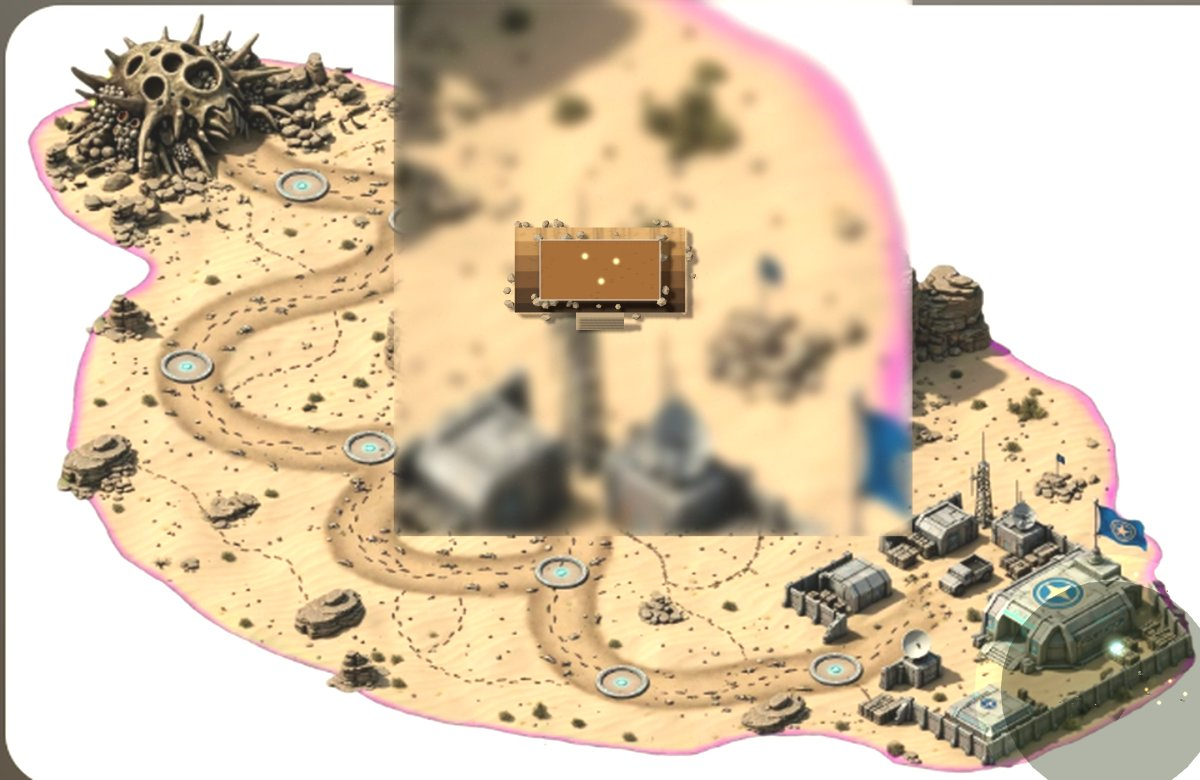
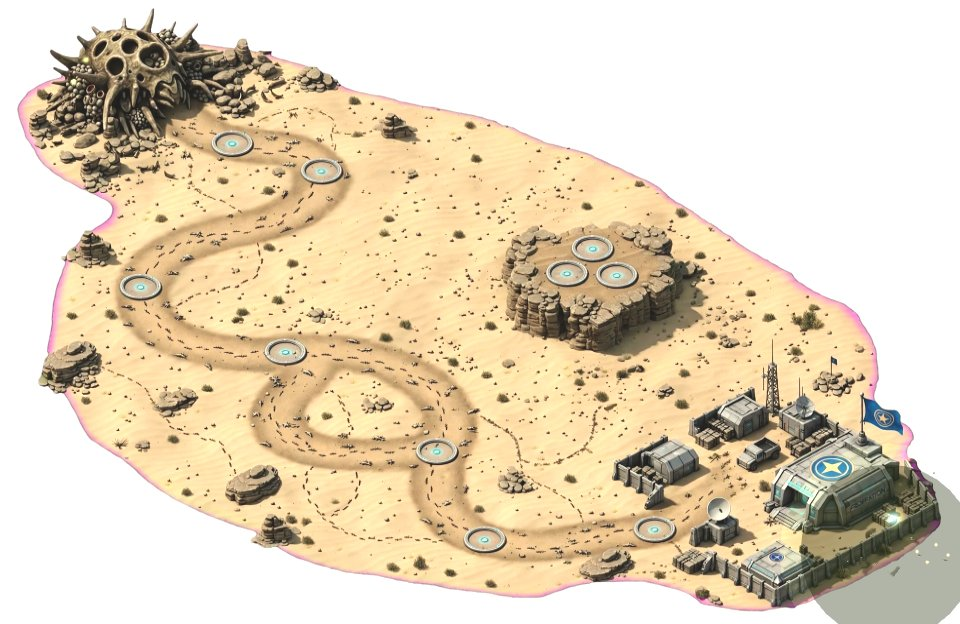
Use client-supplied reference photo with the mountain redrawn smaller
Replace assets/mapa_desejado.jpg with the new version where the
mountain was properly redrawn at a reduced size (no blur/tiling
artifacts, unlike the earlier programmatic erase). Disable the 3D
mesa geometry again since the photo now carries the mountain itself,
and reposition HIGH_TILES/MESA_X0-X1/Z0-Z1 to match where the smaller
rock formation actually sits in the new art, so the tower range bonus
still lines up with what's on screen.

topdown.html still has the 3D mesa mesh added last commit, which will
now double up with this photo's own mountain — left alone per request
to focus on the iso version only for now.

diff --git a/iso.html b/iso.html
@@ -2842,14 +2842,17 @@
   var craterFireT=[], craterSmokeT=[];
   markUnbuildable(0,2,10,12);
 
-  // --- high-ground mesa: real 3D geometry, 50% the size of the earlier version, replacing the flat
-  // mountain that used to be painted into the reference photo (erased from assets/mapa_desejado.jpg) ---
-  var HIGH_TILES={"9,4":1,"10,4":1};
+  // --- high-ground mesa: the client supplied a new reference photo with the mountain already redrawn
+  // smaller, so the 3D geometry is disabled again — HIGH_TILES/MESA_H stay for the tower range bonus,
+  // repositioned to match where the smaller rock formation sits in the new photo ---
+  var HIGH_TILES={"11,5":1,"12,5":1,"13,5":1,"11,6":1,"12,6":1,"13,6":1};
   var HIGH_GROUND_RANGE=1.2;
-  var MESA_H=24;
-  var MESA_X0=9*TILE, MESA_X1=11*TILE, MESA_Z0=4*TILE, MESA_Z1=5*TILE;
+  var MESA_H=40;
+  var MESA_X0=11*TILE, MESA_X1=14*TILE, MESA_Z0=5*TILE, MESA_Z1=7*TILE;
   var mesaPads=[];
   (function buildMesa(){
+    // Mesa 3D desativada: o visual da montanha vem da textura artística do mapa (versão reduzida).
+    return;
     var w=MESA_X1-MESA_X0, dep=MESA_Z1-MESA_Z0;
     var sc=document.createElement("canvas"); sc.width=64; sc.height=256;
     var g=sc.getContext("2d");
@@ -2942,7 +2945,7 @@
       mesaPads.push({sprite:s, phase:i*1.3});
     });
   })();
-  markUnbuildable(8,11,3,5,HIGH_TILES);
+  markUnbuildable(10,14,4,7,HIGH_TILES);
   function isHighTile(c,r){ return !!HIGH_TILES[c+","+r]; }
   function tileHeight(c,r){ return isHighTile(c,r) ? MESA_H : 0; }
 
